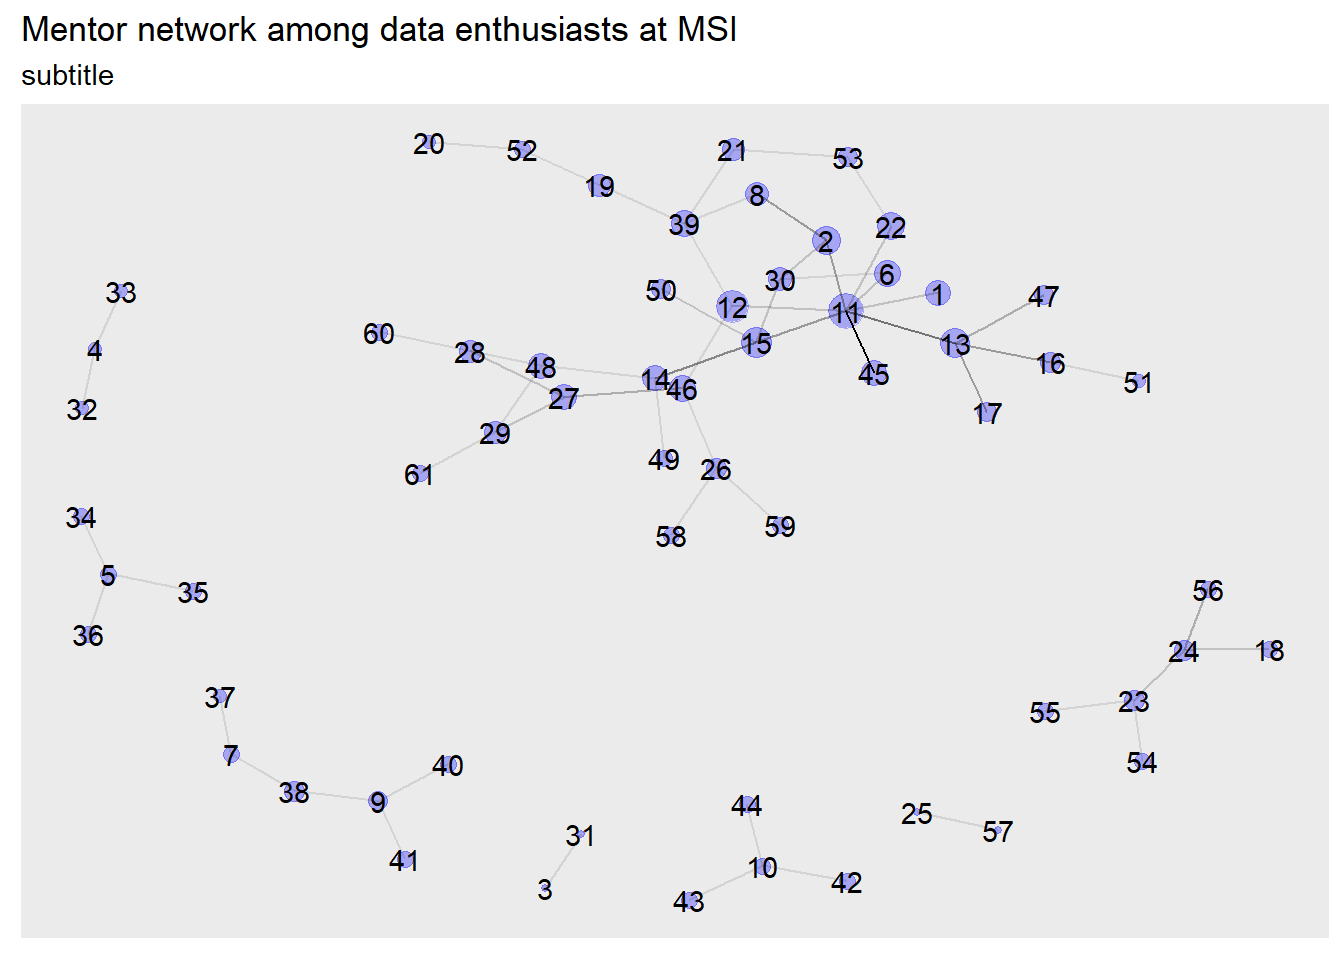
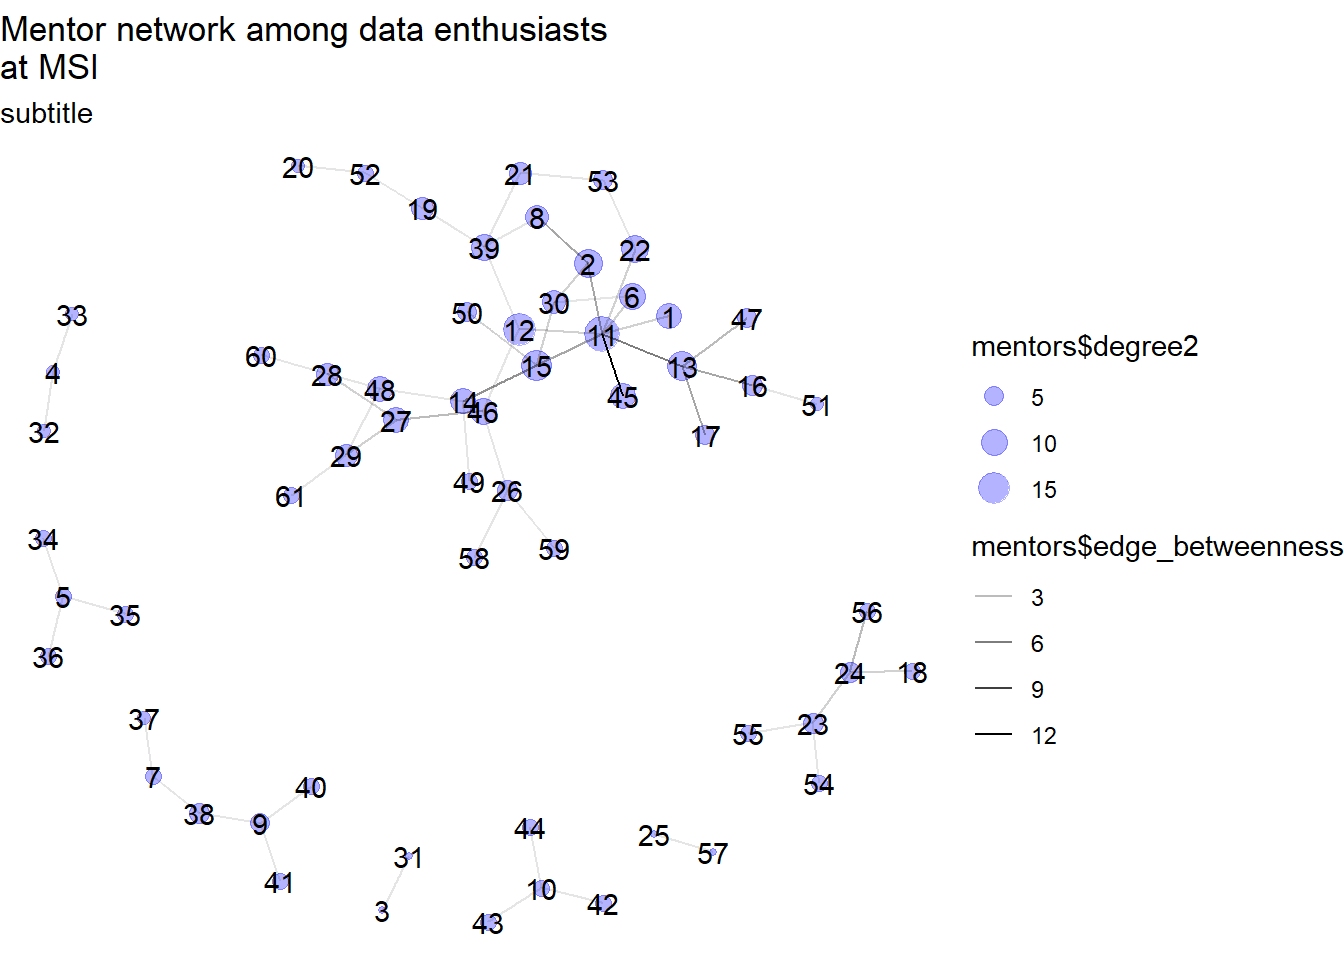
BC

diff --git a/network_analysis_sandbox/scripts/internal_networks.html b/network_analysis_sandbox/scripts/internal_networks.html
@@ -235,35 +235,36 @@ code span.wa { color: #60a0b0; font-weight: bold; font-style: italic; } /* Warni
 <span id="cb4-2"><a href="#cb4-2" aria-hidden="true" tabindex="-1"></a><span class="co">#| label: Edges and nodes</span></span>
 <span id="cb4-3"><a href="#cb4-3" aria-hidden="true" tabindex="-1"></a><span class="co">#| tbl-cap: "Network data"</span></span>
 <span id="cb4-4"><a href="#cb4-4" aria-hidden="true" tabindex="-1"></a><span class="co">#| tbl-subcap:</span></span>
-<span id="cb4-5"><a href="#cb4-5" aria-hidden="true" tabindex="-1"></a><span class="co">#|   - "Edges"</span></span>
-<span id="cb4-6"><a href="#cb4-6" aria-hidden="true" tabindex="-1"></a><span class="co">#|   - "Nodes"</span></span>
+<span id="cb4-5"><a href="#cb4-5" aria-hidden="true" tabindex="-1"></a><span class="co">#|   - "Nodes"</span></span>
+<span id="cb4-6"><a href="#cb4-6" aria-hidden="true" tabindex="-1"></a><span class="co">#|   - "Edges"</span></span>
 <span id="cb4-7"><a href="#cb4-7" aria-hidden="true" tabindex="-1"></a><span class="co">#| layout-ncol: 2</span></span>
 <span id="cb4-8"><a href="#cb4-8" aria-hidden="true" tabindex="-1"></a><span class="co">#| tbl-colwidths: [20,20]</span></span>
-<span id="cb4-9"><a href="#cb4-9" aria-hidden="true" tabindex="-1"></a><span class="co">#read in the dataframes</span></span>
-<span id="cb4-10"><a href="#cb4-10" aria-hidden="true" tabindex="-1"></a></span>
-<span id="cb4-11"><a href="#cb4-11" aria-hidden="true" tabindex="-1"></a><span class="co">#mentoring</span></span>
-<span id="cb4-12"><a href="#cb4-12" aria-hidden="true" tabindex="-1"></a>mentor_nodes <span class="ot">&lt;-</span> readxl<span class="sc">::</span><span class="fu">read_xlsx</span>(here<span class="sc">::</span><span class="fu">here</span>(<span class="st">"network_analysis_sandbox/data/nodes_mentor.xlsx"</span>))</span>
-<span id="cb4-13"><a href="#cb4-13" aria-hidden="true" tabindex="-1"></a></span>
-<span id="cb4-14"><a href="#cb4-14" aria-hidden="true" tabindex="-1"></a>mentor_edges <span class="ot">&lt;-</span> readxl<span class="sc">::</span><span class="fu">read_xlsx</span>(here<span class="sc">::</span><span class="fu">here</span>(<span class="st">"network_analysis_sandbox/data/edges_mentor.xlsx"</span>))</span>
-<span id="cb4-15"><a href="#cb4-15" aria-hidden="true" tabindex="-1"></a></span>
-<span id="cb4-16"><a href="#cb4-16" aria-hidden="true" tabindex="-1"></a><span class="co">#tech questions</span></span>
-<span id="cb4-17"><a href="#cb4-17" aria-hidden="true" tabindex="-1"></a>tech_nodes <span class="ot">&lt;-</span> readxl<span class="sc">::</span><span class="fu">read_xlsx</span>(here<span class="sc">::</span><span class="fu">here</span>(<span class="st">"network_analysis_sandbox/data/nodes_tech.xlsx"</span>))</span>
-<span id="cb4-18"><a href="#cb4-18" aria-hidden="true" tabindex="-1"></a></span>
-<span id="cb4-19"><a href="#cb4-19" aria-hidden="true" tabindex="-1"></a>tech_edges <span class="ot">&lt;-</span> readxl<span class="sc">::</span><span class="fu">read_xlsx</span>(here<span class="sc">::</span><span class="fu">here</span>(<span class="st">"network_analysis_sandbox/data/edges_tech.xlsx"</span>))</span>
-<span id="cb4-20"><a href="#cb4-20" aria-hidden="true" tabindex="-1"></a></span>
-<span id="cb4-21"><a href="#cb4-21" aria-hidden="true" tabindex="-1"></a><span class="fu">kable</span>(<span class="fu">head</span>(mentor_nodes, <span class="at">n =</span> <span class="dv">5</span>))</span>
-<span id="cb4-22"><a href="#cb4-22" aria-hidden="true" tabindex="-1"></a></span>
-<span id="cb4-23"><a href="#cb4-23" aria-hidden="true" tabindex="-1"></a><span class="fu">kable</span>(<span class="fu">head</span>(mentor_edges, <span class="at">n =</span> <span class="dv">5</span>))</span>
-<span id="cb4-24"><a href="#cb4-24" aria-hidden="true" tabindex="-1"></a><span class="in">```</span></span></code><button title="Copy to Clipboard" class="code-copy-button"><i class="bi"></i></button></pre></div>
+<span id="cb4-9"><a href="#cb4-9" aria-hidden="true" tabindex="-1"></a></span>
+<span id="cb4-10"><a href="#cb4-10" aria-hidden="true" tabindex="-1"></a><span class="co">#read in the dataframes</span></span>
+<span id="cb4-11"><a href="#cb4-11" aria-hidden="true" tabindex="-1"></a></span>
+<span id="cb4-12"><a href="#cb4-12" aria-hidden="true" tabindex="-1"></a><span class="co">#mentoring</span></span>
+<span id="cb4-13"><a href="#cb4-13" aria-hidden="true" tabindex="-1"></a>mentor_nodes <span class="ot">&lt;-</span> readxl<span class="sc">::</span><span class="fu">read_xlsx</span>(here<span class="sc">::</span><span class="fu">here</span>(<span class="st">"network_analysis_sandbox/data/nodes_mentor.xlsx"</span>))</span>
+<span id="cb4-14"><a href="#cb4-14" aria-hidden="true" tabindex="-1"></a></span>
+<span id="cb4-15"><a href="#cb4-15" aria-hidden="true" tabindex="-1"></a>mentor_edges <span class="ot">&lt;-</span> readxl<span class="sc">::</span><span class="fu">read_xlsx</span>(here<span class="sc">::</span><span class="fu">here</span>(<span class="st">"network_analysis_sandbox/data/edges_mentor.xlsx"</span>))</span>
+<span id="cb4-16"><a href="#cb4-16" aria-hidden="true" tabindex="-1"></a></span>
+<span id="cb4-17"><a href="#cb4-17" aria-hidden="true" tabindex="-1"></a><span class="co">#tech questions</span></span>
+<span id="cb4-18"><a href="#cb4-18" aria-hidden="true" tabindex="-1"></a>tech_nodes <span class="ot">&lt;-</span> readxl<span class="sc">::</span><span class="fu">read_xlsx</span>(here<span class="sc">::</span><span class="fu">here</span>(<span class="st">"network_analysis_sandbox/data/nodes_tech.xlsx"</span>))</span>
+<span id="cb4-19"><a href="#cb4-19" aria-hidden="true" tabindex="-1"></a></span>
+<span id="cb4-20"><a href="#cb4-20" aria-hidden="true" tabindex="-1"></a>tech_edges <span class="ot">&lt;-</span> readxl<span class="sc">::</span><span class="fu">read_xlsx</span>(here<span class="sc">::</span><span class="fu">here</span>(<span class="st">"network_analysis_sandbox/data/edges_tech.xlsx"</span>))</span>
+<span id="cb4-21"><a href="#cb4-21" aria-hidden="true" tabindex="-1"></a></span>
+<span id="cb4-22"><a href="#cb4-22" aria-hidden="true" tabindex="-1"></a><span class="fu">kable</span>(<span class="fu">head</span>(mentor_nodes, <span class="at">n =</span> <span class="dv">5</span>))</span>
+<span id="cb4-23"><a href="#cb4-23" aria-hidden="true" tabindex="-1"></a></span>
+<span id="cb4-24"><a href="#cb4-24" aria-hidden="true" tabindex="-1"></a><span class="fu">kable</span>(<span class="fu">head</span>(mentor_edges, <span class="at">n =</span> <span class="dv">5</span>))</span>
+<span id="cb4-25"><a href="#cb4-25" aria-hidden="true" tabindex="-1"></a><span class="in">```</span></span></code><button title="Copy to Clipboard" class="code-copy-button"><i class="bi"></i></button></pre></div>
 </details>
-<div id="tbl-anonymous-4598850" class="cell tbl-parent quarto-layout-panel anchored">
+<div id="tbl-anonymous-5968999" class="cell tbl-parent quarto-layout-panel anchored">
 <div class="panel-caption table-caption">
 <p>Network data</p>
 </div>
 <div class="quarto-layout-row quarto-layout-valign-top">
-<div id="tbl-anonymous-4598850-1" class="quarto-layout-cell quarto-layout-cell-subref anchored" data-ref-parent="tbl-anonymous-4598850" style="flex-basis: 50.0%;justify-content: center;">
+<div id="tbl-anonymous-5968999-1" class="quarto-layout-cell quarto-layout-cell-subref anchored" data-ref-parent="tbl-anonymous-5968999" style="flex-basis: 50.0%;justify-content: center;">
 <table class="table table-sm table-striped">
-<caption>Edges</caption>
+<caption>Nodes</caption>
 <colgroup>
 <col style="width: 20%">
 </colgroup>
@@ -291,9 +292,9 @@ code span.wa { color: #60a0b0; font-weight: bold; font-style: italic; } /* Warni
 </tbody>
 </table>
 </div>
-<div id="tbl-anonymous-4598850-2" class="quarto-layout-cell quarto-layout-cell-subref anchored" data-ref-parent="tbl-anonymous-4598850" style="flex-basis: 50.0%;justify-content: center;">
+<div id="tbl-anonymous-5968999-2" class="quarto-layout-cell quarto-layout-cell-subref anchored" data-ref-parent="tbl-anonymous-5968999" style="flex-basis: 50.0%;justify-content: center;">
 <table class="table table-sm table-striped">
-<caption>Nodes</caption>
+<caption>Edges</caption>
 <colgroup>
 <col style="width: 20%">
 <col style="width: 20%">
@@ -332,73 +333,9 @@ code span.wa { color: #60a0b0; font-weight: bold; font-style: italic; } /* Warni
 </div>
 </div>
 <div class="cell">
-<details>
-<summary>Code</summary>
-<div class="sourceCode cell-code" id="cb5"><pre class="sourceCode r code-with-copy"><code class="sourceCode r"><span id="cb5-1"><a href="#cb5-1" aria-hidden="true" tabindex="-1"></a><span class="co">#| label: fig-charts</span></span>
-<span id="cb5-2"><a href="#cb5-2" aria-hidden="true" tabindex="-1"></a><span class="co">#| fig-cap: "Networks"</span></span>
-<span id="cb5-3"><a href="#cb5-3" aria-hidden="true" tabindex="-1"></a><span class="co">#| fig-subcap: </span></span>
-<span id="cb5-4"><a href="#cb5-4" aria-hidden="true" tabindex="-1"></a><span class="co">#|   - "Mentor network"</span></span>
-<span id="cb5-5"><a href="#cb5-5" aria-hidden="true" tabindex="-1"></a><span class="co">#|   - "Technical advice network"</span></span>
-<span id="cb5-6"><a href="#cb5-6" aria-hidden="true" tabindex="-1"></a><span class="co">#| layout-nrow: 2</span></span>
-<span id="cb5-7"><a href="#cb5-7" aria-hidden="true" tabindex="-1"></a></span>
-<span id="cb5-8"><a href="#cb5-8" aria-hidden="true" tabindex="-1"></a></span>
-<span id="cb5-9"><a href="#cb5-9" aria-hidden="true" tabindex="-1"></a><span class="co">#convert the mentor_edges dataframe to a matrix</span></span>
-<span id="cb5-10"><a href="#cb5-10" aria-hidden="true" tabindex="-1"></a>mentors <span class="ot">&lt;-</span> <span class="fu">graph_from_data_frame</span>(mentor_edges)</span>
-<span id="cb5-11"><a href="#cb5-11" aria-hidden="true" tabindex="-1"></a></span>
-<span id="cb5-12"><a href="#cb5-12" aria-hidden="true" tabindex="-1"></a><span class="co">#add degree</span></span>
-<span id="cb5-13"><a href="#cb5-13" aria-hidden="true" tabindex="-1"></a>mentors<span class="sc">$</span>degree <span class="ot">&lt;-</span> <span class="fu">degree</span>(mentors)</span>
-<span id="cb5-14"><a href="#cb5-14" aria-hidden="true" tabindex="-1"></a></span>
-<span id="cb5-15"><a href="#cb5-15" aria-hidden="true" tabindex="-1"></a><span class="co">#add edge_betweenness</span></span>
-<span id="cb5-16"><a href="#cb5-16" aria-hidden="true" tabindex="-1"></a>mentors<span class="sc">$</span>edge_betweenness <span class="ot">&lt;-</span> <span class="fu">edge_betweenness</span>(mentors)</span>
-<span id="cb5-17"><a href="#cb5-17" aria-hidden="true" tabindex="-1"></a></span>
-<span id="cb5-18"><a href="#cb5-18" aria-hidden="true" tabindex="-1"></a><span class="co">#add neighborhood size (i.e. size of neighborhood within 2 edges of a node)</span></span>
-<span id="cb5-19"><a href="#cb5-19" aria-hidden="true" tabindex="-1"></a>mentors<span class="sc">$</span>degree2 <span class="ot">&lt;-</span> <span class="fu">neighborhood.size</span>(mentors, <span class="dv">2</span>)</span>
-<span id="cb5-20"><a href="#cb5-20" aria-hidden="true" tabindex="-1"></a></span>
-<span id="cb5-21"><a href="#cb5-21" aria-hidden="true" tabindex="-1"></a>ment_graph <span class="ot">&lt;-</span> <span class="fu">ggraph</span>(mentors, <span class="at">layout =</span> <span class="st">"with_kk"</span>) <span class="sc">+</span></span>
-<span id="cb5-22"><a href="#cb5-22" aria-hidden="true" tabindex="-1"></a>  <span class="fu">geom_node_point</span>(<span class="fu">aes</span>(<span class="at">size =</span> mentors<span class="sc">$</span>degree2)</span>
-<span id="cb5-23"><a href="#cb5-23" aria-hidden="true" tabindex="-1"></a>                  , <span class="at">color =</span> <span class="st">"blue"</span></span>
-<span id="cb5-24"><a href="#cb5-24" aria-hidden="true" tabindex="-1"></a>                    , <span class="at">alpha =</span> .<span class="dv">3</span>) <span class="sc">+</span></span>
-<span id="cb5-25"><a href="#cb5-25" aria-hidden="true" tabindex="-1"></a>  <span class="fu">geom_node_text</span>(<span class="fu">aes</span>(<span class="at">label =</span> name )) <span class="sc">+</span></span>
-<span id="cb5-26"><a href="#cb5-26" aria-hidden="true" tabindex="-1"></a>  <span class="fu">geom_edge_link</span>(<span class="fu">aes</span>(<span class="at">alpha =</span> mentors<span class="sc">$</span>edge_betweenness)) <span class="sc">+</span></span>
-<span id="cb5-27"><a href="#cb5-27" aria-hidden="true" tabindex="-1"></a>  <span class="fu">labs</span>(<span class="at">title =</span> <span class="st">"Mentor network among data enthusiasts at MSI"</span></span>
-<span id="cb5-28"><a href="#cb5-28" aria-hidden="true" tabindex="-1"></a>       , <span class="at">subtitle =</span> <span class="st">"subtitle"</span>) <span class="sc">+</span></span>
-<span id="cb5-29"><a href="#cb5-29" aria-hidden="true" tabindex="-1"></a>  <span class="fu">theme</span>(<span class="at">legend.position =</span> <span class="st">"none"</span>)</span>
-<span id="cb5-30"><a href="#cb5-30" aria-hidden="true" tabindex="-1"></a></span>
-<span id="cb5-31"><a href="#cb5-31" aria-hidden="true" tabindex="-1"></a><span class="co">#Repeat for tech side</span></span>
-<span id="cb5-32"><a href="#cb5-32" aria-hidden="true" tabindex="-1"></a>techs <span class="ot">&lt;-</span> <span class="fu">graph_from_data_frame</span>(tech_edges)</span>
-<span id="cb5-33"><a href="#cb5-33" aria-hidden="true" tabindex="-1"></a></span>
-<span id="cb5-34"><a href="#cb5-34" aria-hidden="true" tabindex="-1"></a><span class="co">#add degree</span></span>
-<span id="cb5-35"><a href="#cb5-35" aria-hidden="true" tabindex="-1"></a>techs<span class="sc">$</span>degree <span class="ot">&lt;-</span> <span class="fu">degree</span>(techs)</span>
-<span id="cb5-36"><a href="#cb5-36" aria-hidden="true" tabindex="-1"></a></span>
-<span id="cb5-37"><a href="#cb5-37" aria-hidden="true" tabindex="-1"></a><span class="co">#add edge_betweenness</span></span>
-<span id="cb5-38"><a href="#cb5-38" aria-hidden="true" tabindex="-1"></a>techs<span class="sc">$</span>edge_betweenness <span class="ot">&lt;-</span> <span class="fu">edge_betweenness</span>(techs)</span>
-<span id="cb5-39"><a href="#cb5-39" aria-hidden="true" tabindex="-1"></a></span>
-<span id="cb5-40"><a href="#cb5-40" aria-hidden="true" tabindex="-1"></a><span class="co">#add neighborhood size (i.e. size of neighborhood within 2 edges of a node)</span></span>
-<span id="cb5-41"><a href="#cb5-41" aria-hidden="true" tabindex="-1"></a>techs<span class="sc">$</span>degree2 <span class="ot">&lt;-</span> <span class="fu">neighborhood.size</span>(techs, <span class="dv">2</span>)</span>
-<span id="cb5-42"><a href="#cb5-42" aria-hidden="true" tabindex="-1"></a></span>
-<span id="cb5-43"><a href="#cb5-43" aria-hidden="true" tabindex="-1"></a>tech_graph <span class="ot">&lt;-</span> <span class="fu">ggraph</span>(techs, <span class="at">layout =</span> <span class="st">"with_kk"</span>) <span class="sc">+</span></span>
-<span id="cb5-44"><a href="#cb5-44" aria-hidden="true" tabindex="-1"></a>  <span class="fu">geom_node_point</span>(<span class="fu">aes</span>(<span class="at">size =</span> techs<span class="sc">$</span>degree2)</span>
-<span id="cb5-45"><a href="#cb5-45" aria-hidden="true" tabindex="-1"></a>                  , <span class="at">color =</span> <span class="st">"red"</span></span>
-<span id="cb5-46"><a href="#cb5-46" aria-hidden="true" tabindex="-1"></a>                    , <span class="at">alpha =</span> .<span class="dv">3</span>) <span class="sc">+</span></span>
-<span id="cb5-47"><a href="#cb5-47" aria-hidden="true" tabindex="-1"></a>  <span class="fu">geom_node_text</span>(<span class="fu">aes</span>(<span class="at">label =</span> name )) <span class="sc">+</span></span>
-<span id="cb5-48"><a href="#cb5-48" aria-hidden="true" tabindex="-1"></a>  <span class="fu">geom_edge_link</span>(<span class="fu">aes</span>(<span class="at">alpha =</span> techs<span class="sc">$</span>edge_betweenness)) <span class="sc">+</span></span>
-<span id="cb5-49"><a href="#cb5-49" aria-hidden="true" tabindex="-1"></a>  <span class="fu">labs</span>(<span class="at">title =</span> <span class="st">"Technical advice network among data enthusiasts at MSI"</span></span>
-<span id="cb5-50"><a href="#cb5-50" aria-hidden="true" tabindex="-1"></a>       , <span class="at">subtitle =</span> <span class="st">"Something about the nodes"</span>) <span class="sc">+</span></span>
-<span id="cb5-51"><a href="#cb5-51" aria-hidden="true" tabindex="-1"></a>  <span class="fu">theme</span>(<span class="at">legend.position =</span> <span class="st">"none"</span>)</span>
-<span id="cb5-52"><a href="#cb5-52" aria-hidden="true" tabindex="-1"></a></span>
-<span id="cb5-53"><a href="#cb5-53" aria-hidden="true" tabindex="-1"></a>ment_graph</span></code><button title="Copy to Clipboard" class="code-copy-button"><i class="bi"></i></button></pre></div>
-</details>
-<div class="cell-output cell-output-stderr">
-<pre><code>Warning: Using the `size` aesthetic in this geom was deprecated in ggplot2 3.4.0.
-ℹ Please use `linewidth` in the `default_aes` field and elsewhere instead.</code></pre>
-</div>
 <div class="cell-output-display">
 <p><img src="internal_networks_files/figure-html/unnamed-chunk-5-1.png" class="img-fluid" width="672"></p>
 </div>
-<details>
-<summary>Code</summary>
-<div class="sourceCode cell-code" id="cb7"><pre class="sourceCode r code-with-copy"><code class="sourceCode r"><span id="cb7-1"><a href="#cb7-1" aria-hidden="true" tabindex="-1"></a>tech_graph</span></code><button title="Copy to Clipboard" class="code-copy-button"><i class="bi"></i></button></pre></div>
-</details>
 <div class="cell-output-display">
 <p><img src="internal_networks_files/figure-html/unnamed-chunk-5-2.png" class="img-fluid" width="672"></p>
 </div>
